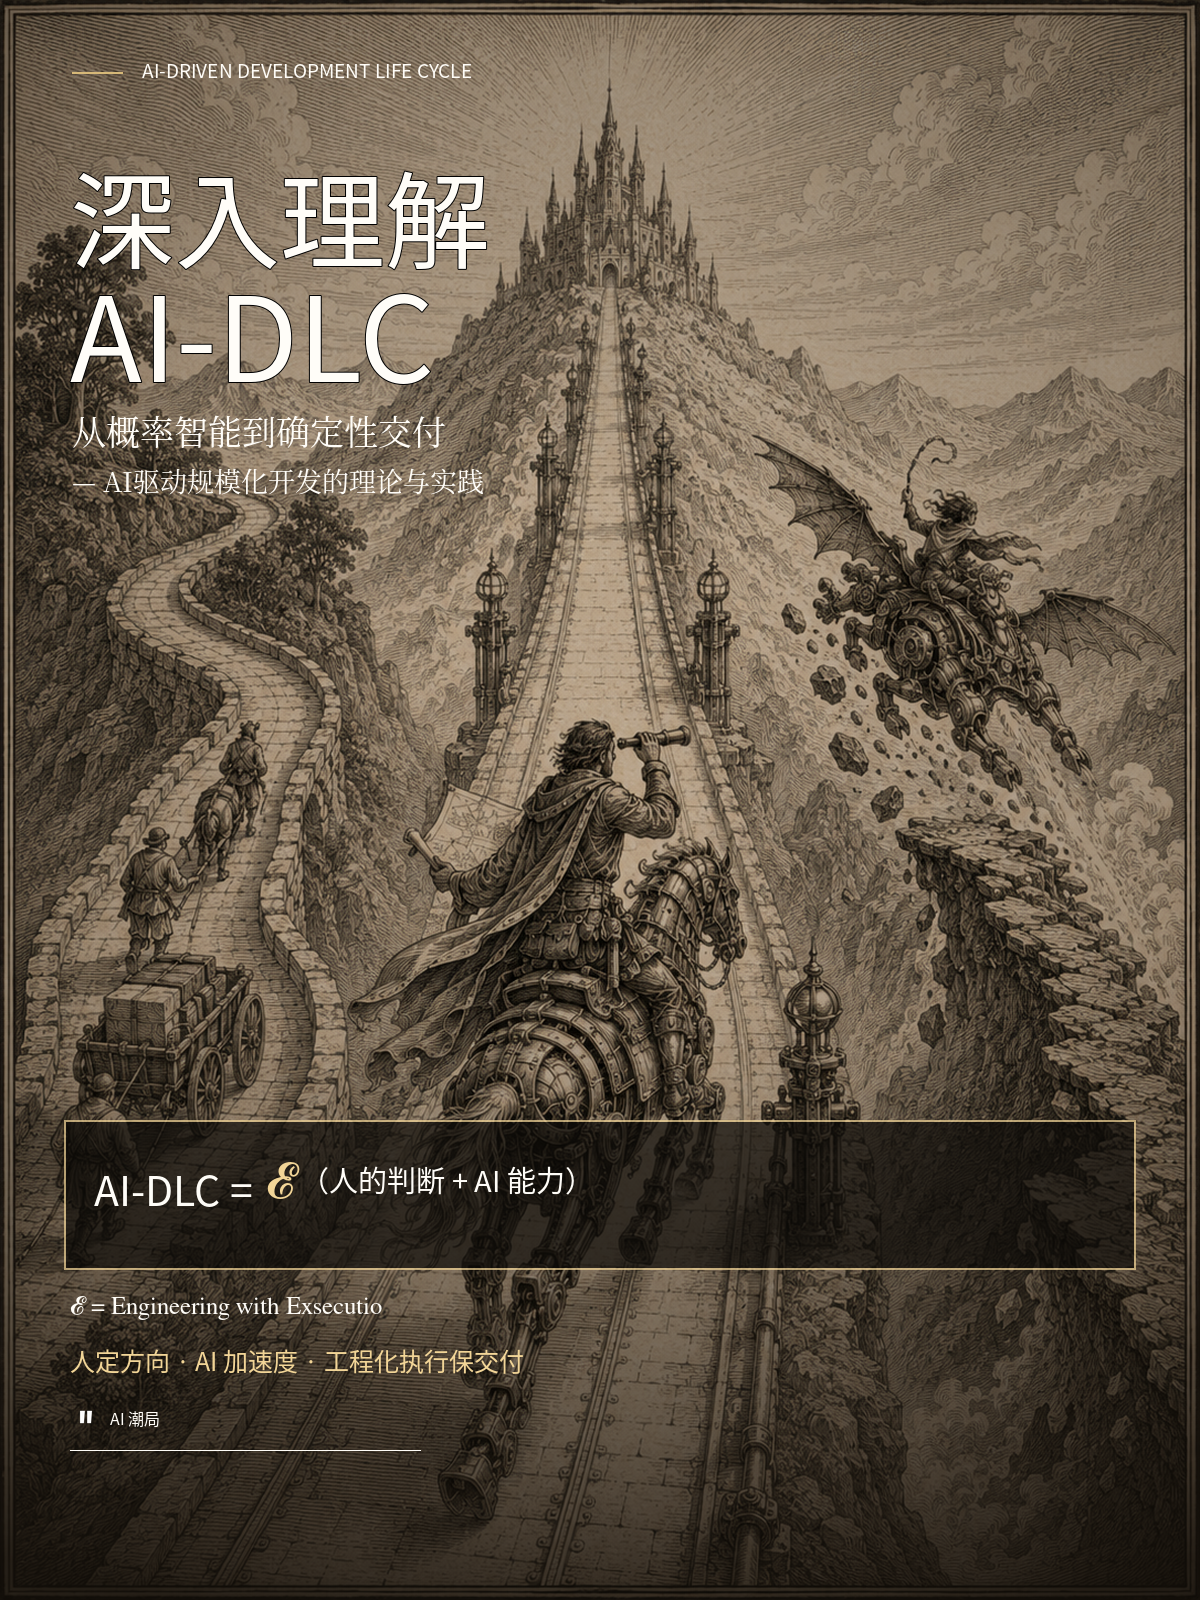
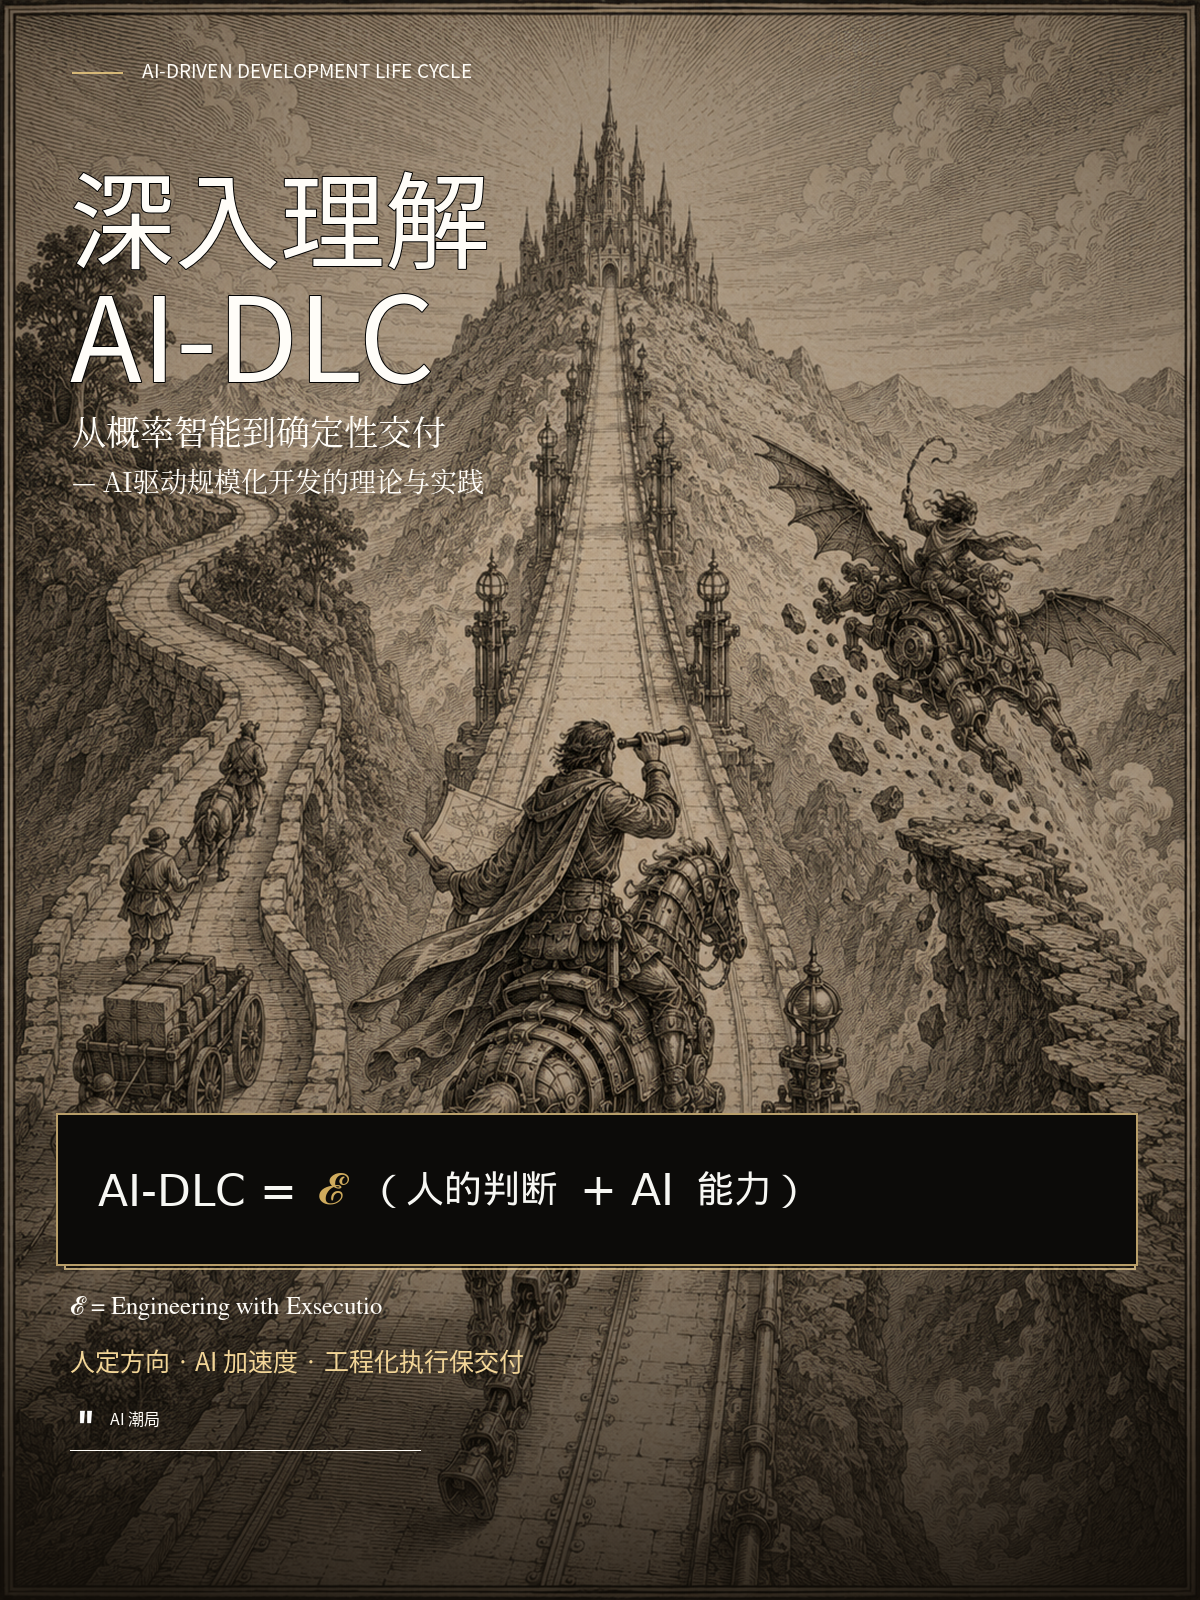
Fix PDF cover bleed and formula alignment

Changed region(s): [[0.0308, 0.6875, 0.9558, 0.8125]]

diff --git a/tests/test_build_book.py b/tests/test_build_book.py
@@ -19,6 +19,17 @@ HAS_MERMAID = shutil.which("mmdc") is not None
 HAS_TECTONIC = shutil.which("tectonic") is not None
 
 
+class CoverLayoutContractTest(unittest.TestCase):
+    def test_pdf_cover_fills_page_by_height_without_forced_width(self):
+        source = (REPO_ROOT / "scripts/build_book.py").read_text(encoding="utf-8")
+        cover = source.split('PDF_FULL_PAGE_COVER = r"""', 1)[1].split('"""', 1)[0]
+
+        self.assertIn(r"width=0.75\paperheight,height=\paperheight", cover)
+        self.assertIn("keepaspectratio=false", cover)
+        self.assertIn(r"\AtPageLowerLeft", cover)
+        self.assertNotIn(r"width=\paperwidth,height=\paperheight", cover)
+
+
 class CandidateParser(HTMLParser):
     def __init__(self):
         super().__init__()

diff --git a/scripts/build_book.py b/scripts/build_book.py
@@ -65,7 +65,8 @@ MERMAID_BLOCK = re.compile(r"^```mermaid[^\n]*\n(.*?)^```[ \t]*$", re.MULTILINE 
 COVER_MARKDOWN = "![《深入理解 AI-DLC》书籍封面](images/cover.png){.book-cover width=42%}"
 PDF_FULL_PAGE_COVER = r"""\newgeometry{margin=0pt}
 \thispagestyle{empty}
-\noindent\makebox[\paperwidth][c]{\includegraphics[width=\paperwidth,height=\paperheight]{\detokenize{__PDF_COVER_PATH__}}}
+\AddToShipoutPictureBG*{\AtPageLowerLeft{\makebox[\paperwidth][c]{\includegraphics[width=0.75\paperheight,height=\paperheight,keepaspectratio=false]{\detokenize{__PDF_COVER_PATH__}}}}}
+\null
 \clearpage
 \restoregeometry"""
 

diff --git a/book/templates/release-pdf-header.tex b/book/templates/release-pdf-header.tex
@@ -1,4 +1,5 @@
 % Release PDF polish: spacing and widow/orphan control.
+\usepackage{eso-pic}
 \setlength{\parskip}{0.45em}
 \setlength{\parindent}{0pt}
 \clubpenalty=10000

diff --git a/book/images/README.md b/book/images/README.md
@@ -3,14 +3,15 @@
 ## `cover.png`
 
 - 用途：《深入理解 AI-DLC》书籍封面
-- 状态：作者定稿，原始字节归档，未重压缩
+- 状态：作者定稿；2026-07-25 修订公式字号与垂直对齐
 - 尺寸：1200 × 1600
 - 格式：PNG
 - 来源：作者提供的 `深入理解AI-DLC_封面.png`
[2 lines of base64/hex data omitted]
 - 纳入时间：`2026-07-22T03:51:07Z`
 
 本封面是书籍视觉资产，不替代路线图中计划单独制作的正文核心图。
+PDF 构建按纸张高度铺满并水平居中裁切，避免 3:4 封面在 A4 页面底部产生留白。
 
 ## `fig0-1.svg`
 
